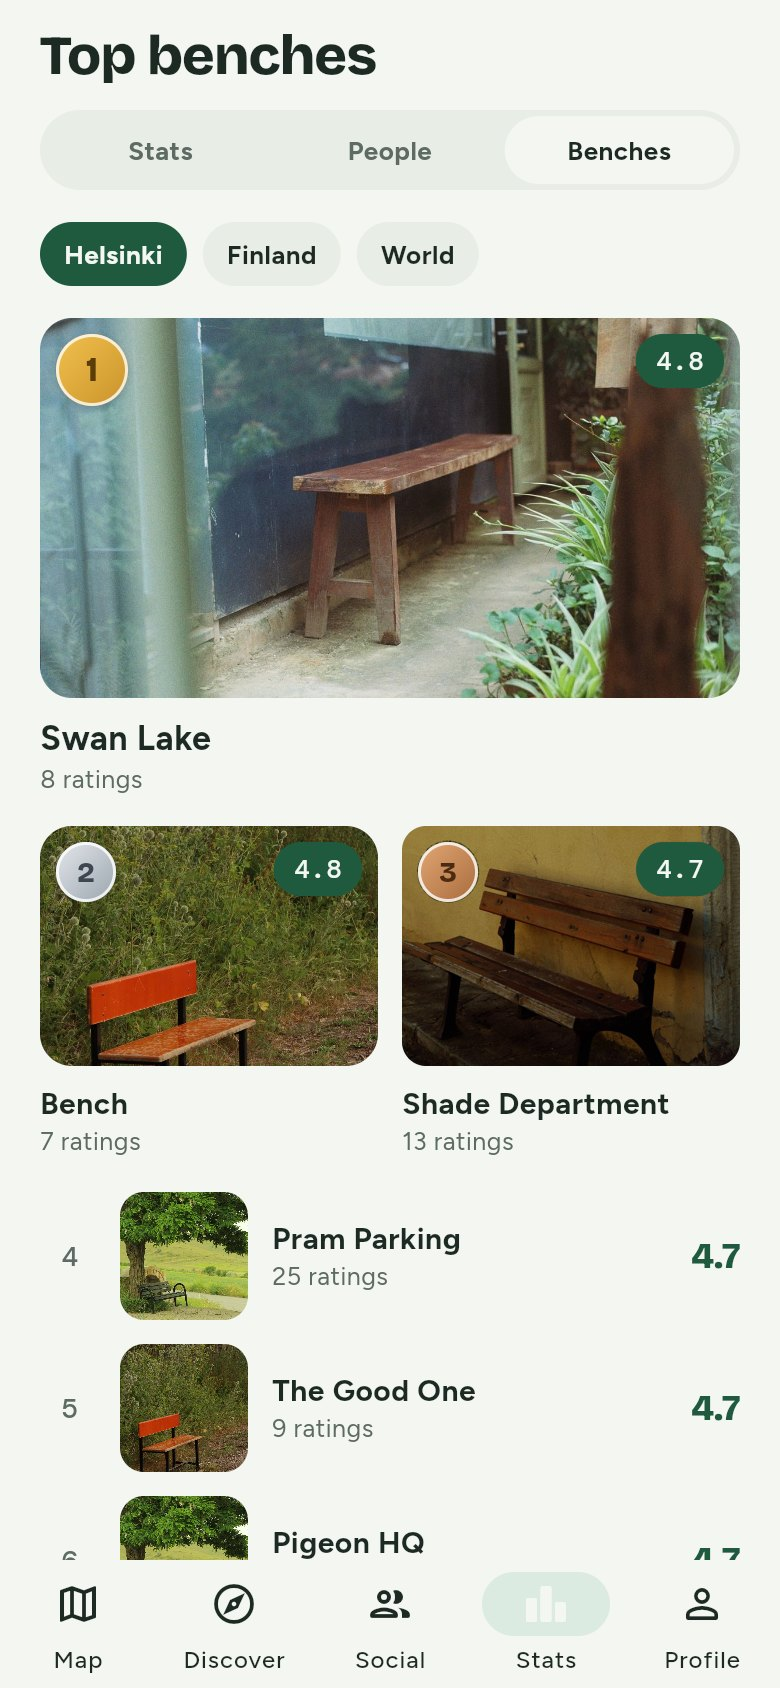
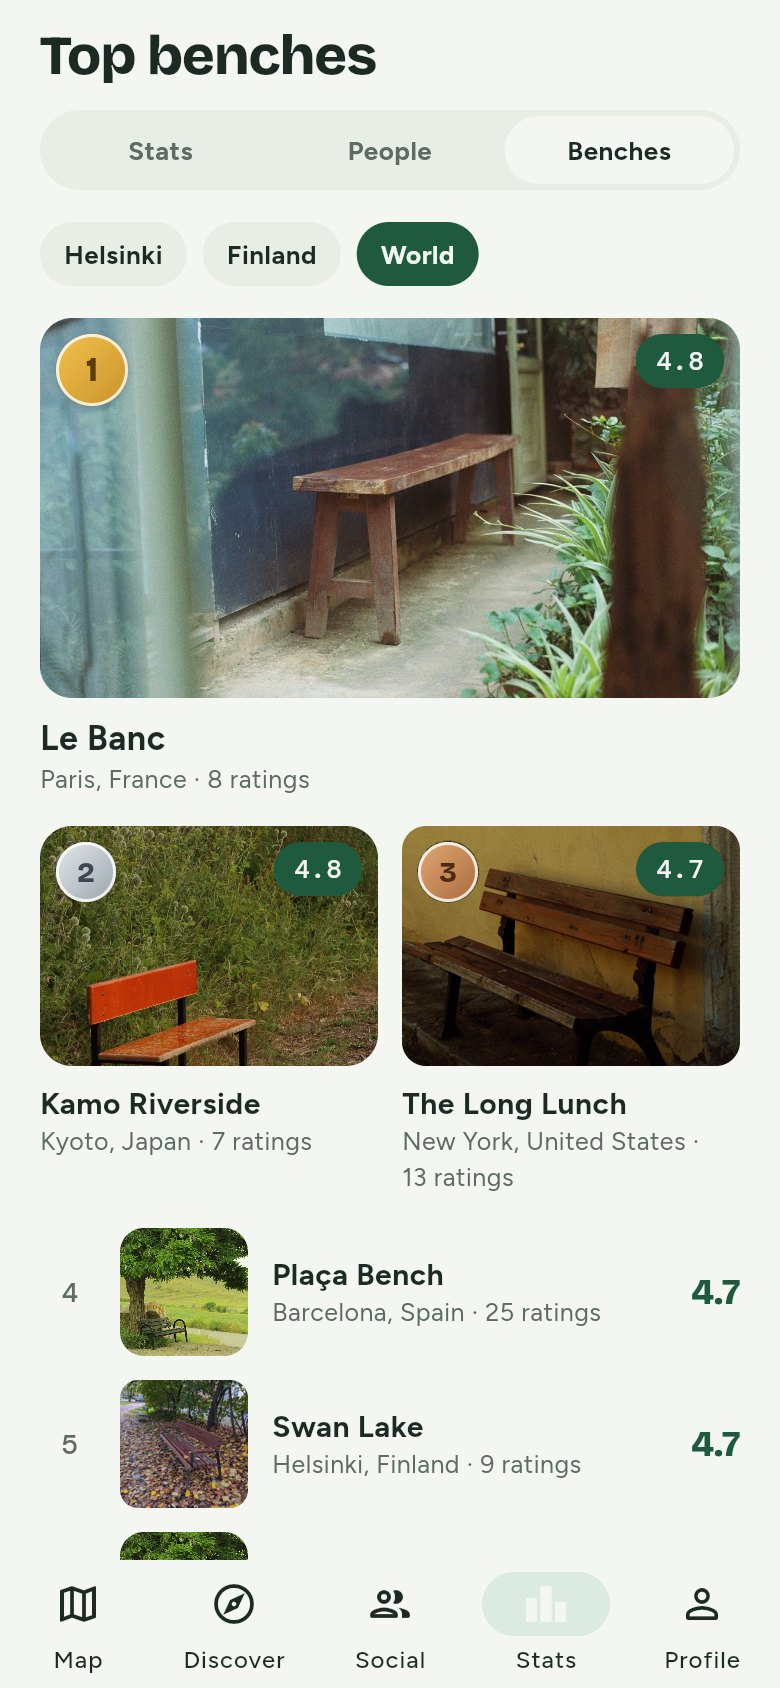
Leaderboard picture: the World board (not live until merged)
Claude-Session: https://claude.ai/code/session_018BmSdR6a3koHmjjaHyrTu8

diff --git a/web/index.html b/web/index.html
@@ -138,7 +138,7 @@
       <h2>May the best bench win.</h2>
       <p>The best benches in your town, your country and the world get a podium. So do the people who sit on the most of them.</p>
     </div>
-    <div class="shot"><img src="img/board.jpg" alt="Top benches in Helsinki, with the top three on a podium"></div>
+    <div class="shot"><img src="img/board.jpg" alt="Top benches in the world, with the top three on a podium"></div>
   </section>
 
   <section class="band split">
